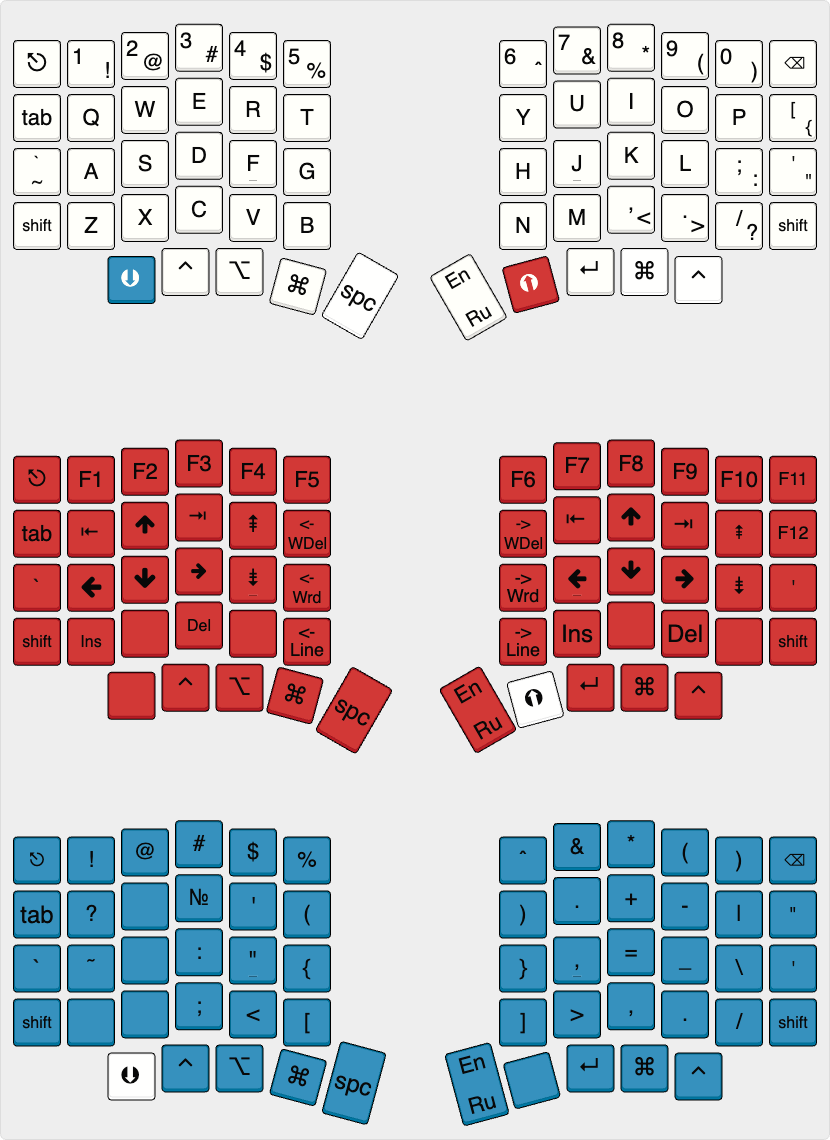
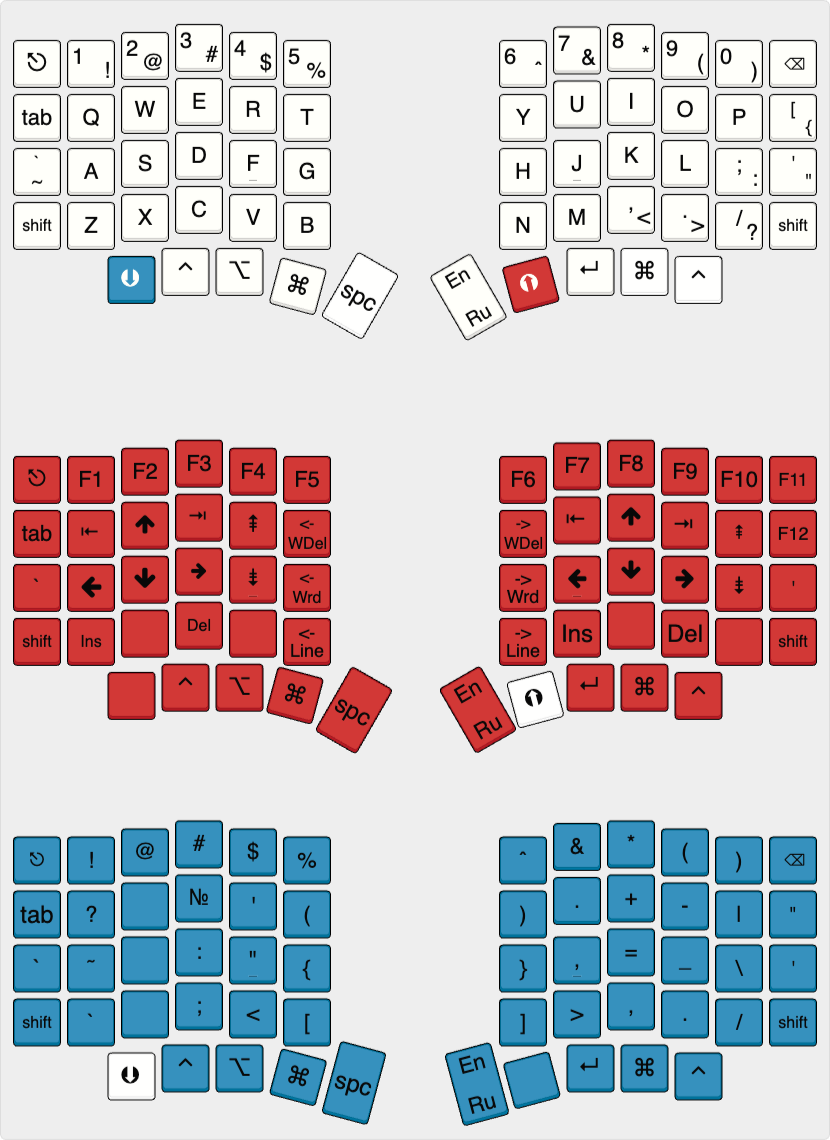
добавлен символ обратного апострофа на комбо и слой LOWER

diff --git a/sofle_v1_lang_shift/keymap.c b/sofle_v1_lang_shift/keymap.c
@@ -162,7 +162,7 @@ const uint16_t PROGMEM keymaps[][MATRIX_ROWS][MATRIX_COLS] = {
  * |------+------+------+------+------+------|                    |------+------+------+------+------+------|
  * |   `  |   ~  |      |   :  |   "  |   {  |-------.    ,-------|   }  |   ,  |   =  |   _  |   \  |   '  |
  * |------+------+------+------+------+------|  MUTE |    |       |------+------+------+------+------+------|
- * | Shift|      |      |   ;  |   <  |   [  |-------|    |-------|   ]  |   >  |   ,  |   .  |   /  | Shift|
+ * | Shift|   `  |      |   ;  |   <  |   [  |-------|    |-------|   ]  |   >  |   ,  |   .  |   /  | Shift|
  * `-----------------------------------------/       /     \      \-----------------------------------------'
  *            | LOWER| CTR  |  Alt |  GUI | / Bspc  /       \RU/EN \  | RAISE|Enter |  GUI |  CTR |
  *            |      |      |      |      |/       /         \      \ |      |      |      |      |
@@ -172,7 +172,7 @@ const uint16_t PROGMEM keymaps[][MATRIX_ROWS][MATRIX_COLS] = {
   _______, AG_EXCL,   EN_AT, EN_HASH,  EN_DLR, AG_PERC,                    EN_CIRC, EN_AMPR, AG_ASTR, AG_LPRN, AG_RPRN, KC_BSPC,
   _______, AG_QUES, XXXXXXX, RU_NUME, EN_QUOT, AG_LPRN,                    AG_RPRN,  AG_DOT, AG_PLUS, AG_MINS, EN_PIPE, AG_DQUO,
    EN_GRV, EN_TILD, XXXXXXX, AG_COLN, AG_DQUO, EN_LCBR,                    EN_RCBR, AG_COMM,  AG_EQL, AG_UNDS, AG_BSLS, EN_QUOT,
-  _______, XXXXXXX, XXXXXXX, AG_SCLN,   EN_LT, EN_LBRC, _______,   XXXXXXX,EN_RBRC,   EN_GT, AG_COMM,  AG_DOT, EN_SLSH, _______,
+  _______,  EN_GRV, XXXXXXX, AG_SCLN,   EN_LT, EN_LBRC, _______,   XXXXXXX,EN_RBRC,   EN_GT, AG_COMM,  AG_DOT, EN_SLSH, _______,
 
                     _______, _______, _______, _______, KC_BSPC,       _______, _______, _______, _______, _______
 ),
@@ -230,7 +230,7 @@ const uint16_t PROGMEM keymaps[][MATRIX_ROWS][MATRIX_COLS] = {
  * |------+------+------+------+------+------|                    |------+------+------+------+------+------|
  * |     [˜]    [ ]    [:]    ["]    [{]     |-------.    ,-------|     [}]    [,]    [=]    [_]    [\]     |
  * |------+------+------+------+------+------|       |    |       |------+------+------+------+------+------|
- * |     [ ]    [ ]    [;]    [<]    [[]     |-------|    |-------|     []]    [>]    [,]    [.]    [/]     |
+ * |     [`]    [ ]    [;]    [<]    [[]     |-------|    |-------|     []]    [>]    [,]    [.]    [/]     |
  * `-----------------------------------------/       /     \      \-----------------------------------------'
  *            |      |      |      |.     | /       /       \.     \  |      |.     |      |      |
  *            |      |      |      |      |/       /         \      \ |      |      |      |      |
@@ -240,7 +240,7 @@ const uint16_t PROGMEM combos_horizontal[] = {
   AG_EXCL,    EN_AT,  EN_HASH,   EN_DLR, AG_PERC,                      EN_CIRC, EN_AMPR, AG_ASTR, AG_LPRN, AG_RPRN,
   AG_QUES,  XXXXXXX,  RU_NUME,  EN_QUOT, AG_LPRN,                      AG_RPRN,  AG_DOT, AG_PLUS, AG_MINS, EN_PIPE,
   EN_TILD,  XXXXXXX,  AG_COLN,  AG_DQUO, EN_LCBR,                      EN_RCBR, AG_COMM,  AG_EQL, AG_UNDS, AG_BSLS,
-  XXXXXXX,  XXXXXXX,  AG_SCLN,    EN_LT, EN_LBRC,                      EN_RBRC,   EN_GT, AG_COMM,  AG_DOT, EN_SLSH,
+   EN_GRV,  XXXXXXX,  AG_SCLN,    EN_LT, EN_LBRC,                      EN_RBRC,   EN_GT, AG_COMM,  AG_DOT, EN_SLSH,
 };
 
 
